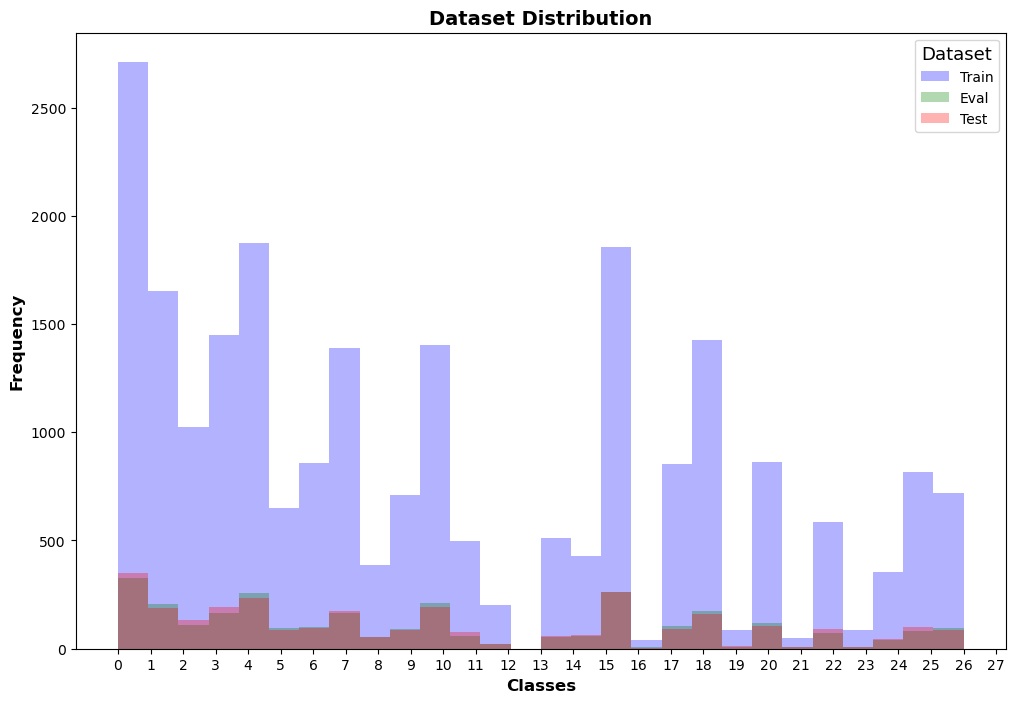
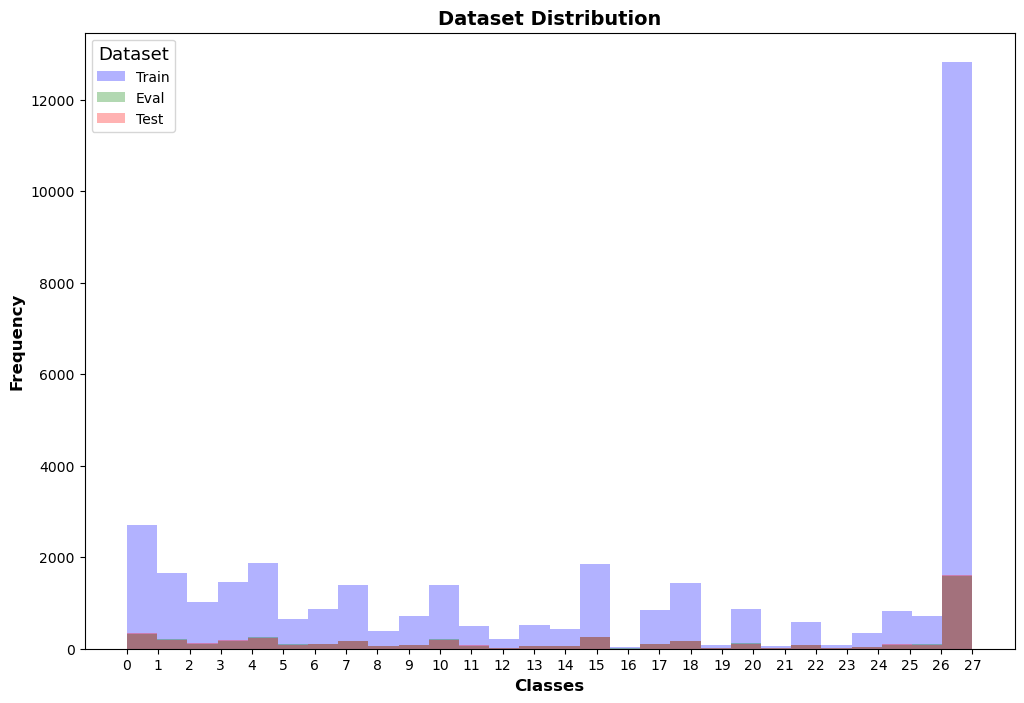
Fixed things

Changed region(s): [[0.0305, 0.0597, 0.9773, 0.9858], [0.4276, 0.0, 0.6414, 0.0597]]

diff --git a/src/Distilled-GPT2/PrepareDataset.py b/src/Distilled-GPT2/PrepareDataset.py
@@ -37,36 +37,40 @@ MODEL_NAME = "Distilled-GPT2"
 
 
 if __name__ == "__main__":
+    
+    """ Single Label Classification """
 
-    # tokenizer, model = load_model_and_tokenizer(MODEL_PATH)
+    tokenizer, model = load_model_and_tokenizer(MODEL_PATH)
 
-    # train_dataset, eval_dataset, test_dataset = prepare_datasets(tokenizer)
+    train_dataset, eval_dataset, test_dataset = prepare_datasets(tokenizer)
 
-    # plot_distribution_of_datasets(
-    #     train_dataset, eval_dataset, test_dataset, saving_path=SAVING_PATH
-    # )
+    plot_distribution_of_datasets(
+        train_dataset, eval_dataset, test_dataset, saving_path=SAVING_PATH
+    )
 
-    # # untrainded_model_prediction =  predict_trainer(model, test_dataset, batch_size=16)
+    # untrainded_model_prediction =  predict_trainer(model, test_dataset, batch_size=16)
 
-    # trained_model = train_model_trainer(model, train_dataset, eval_dataset=eval_dataset)
+    trained_model = train_model_trainer(model, train_dataset, eval_dataset=eval_dataset)
 
-    # prediction = predict_trainer(trained_model, test_dataset, batch_size=32)
+    prediction = predict_trainer(trained_model, test_dataset, batch_size=32)
 
-    # # prediction_train = predict_trainer(trained_model, train_dataset, batch_size=32)
+    # prediction_train = predict_trainer(trained_model, train_dataset, batch_size=32)
 
-    # labels_test = test_dataset["labels"]
-    # # labels_train = train_dataset["labels"]
+    labels_test = test_dataset["labels"]
+    # labels_train = train_dataset["labels"]
 
-    # compute_accuracy(prediction, labels_test, "test", MODEL_NAME)
-    # compute_recall(prediction, labels_test, "test", MODEL_NAME)
-    # compute_precision(prediction, labels_test, "test", MODEL_NAME)
-    # compute_classification_report(prediction, labels_test, "test", MODEL_NAME)
-    # # compute_accuracy(prediction_train, labels_train, "train")
-    # # compute_accuracy(untrainded_model_prediction, labels_test, "untrained")
+    compute_accuracy(prediction, labels_test, "test", MODEL_NAME)
+    compute_recall(prediction, labels_test, "test", MODEL_NAME)
+    compute_precision(prediction, labels_test, "test", MODEL_NAME)
+    compute_classification_report(prediction, labels_test, "test", MODEL_NAME)
+    # compute_accuracy(prediction_train, labels_train, "train")
+    # compute_accuracy(untrainded_model_prediction, labels_test, "untrained")
 
-    # plot_confusion_matrix(prediction, labels_test, saving_path=SAVING_PATH)
+    plot_confusion_matrix(prediction, labels_test, saving_path=SAVING_PATH)
+    
+    """ Multilabel Classification """
 
-    tokenizer, model = load_model_and_tokenizer_multilabel(MODEL_PATH, True)
+    tokenizer, model = load_model_and_tokenizer_multilabel(MODEL_PATH)
     train_dataset, eval_dataset, test_dataset = prepare_multilabel_datasets(tokenizer)
 
     plot_distribution_of_datasets_binary_vector_labels(

diff --git a/src/Utils.py b/src/Utils.py
@@ -34,9 +34,9 @@ def get_single_label_dataset():
     ds_train, ds_validation, ds_test = get_go_emotions_dataset()
 
     # Filter the dataset
-    ds_train = ds_train.filter(filter_single_label).filter(filter_single_27)
-    ds_validation = ds_validation.filter(filter_single_label).filter(filter_single_27)
-    ds_test = ds_test.filter(filter_single_label).filter(filter_single_27)
+    ds_train = ds_train.filter(filter_single_label)
+    ds_validation = ds_validation.filter(filter_single_label)
+    ds_test = ds_test.filter(filter_single_label)
 
     # ds_train = undersample_features(ds_train)
     # ds_train = oversample_dataset(ds_train)
@@ -126,9 +126,7 @@ def load_model_and_tokenizer(model_path: str) -> tuple:
     return tokenizer, model
 
 
-def load_model_and_tokenizer_multilabel(
-    model_path: str, use_custom_model=False
-) -> tuple:
+def load_model_and_tokenizer_multilabel(model_path: str) -> tuple:
     """
     Load the tokenizer and model from a given path.
 
@@ -143,20 +141,12 @@ def load_model_and_tokenizer_multilabel(
     )
     tokenizer.pad_token = tokenizer.eos_token
 
-    if use_custom_model:
-        model = GPT2ForSequenceClassification.from_pretrained(
-            model_path,
-            num_labels=28,
-            pad_token_id=tokenizer.pad_token_id,
-            problem_type="multi_label_classification",
-        )
-    else:
-        model = AutoModelForSequenceClassification.from_pretrained(
-            model_path,
-            num_labels=28,
-            pad_token_id=tokenizer.pad_token_id,
-            problem_type="multi_label_classification",
-        )
+    model = AutoModelForSequenceClassification.from_pretrained(
+        model_path,
+        num_labels=28,
+        pad_token_id=tokenizer.pad_token_id,
+        problem_type="multi_label_classification",
+    )
 
     return tokenizer, model
 
